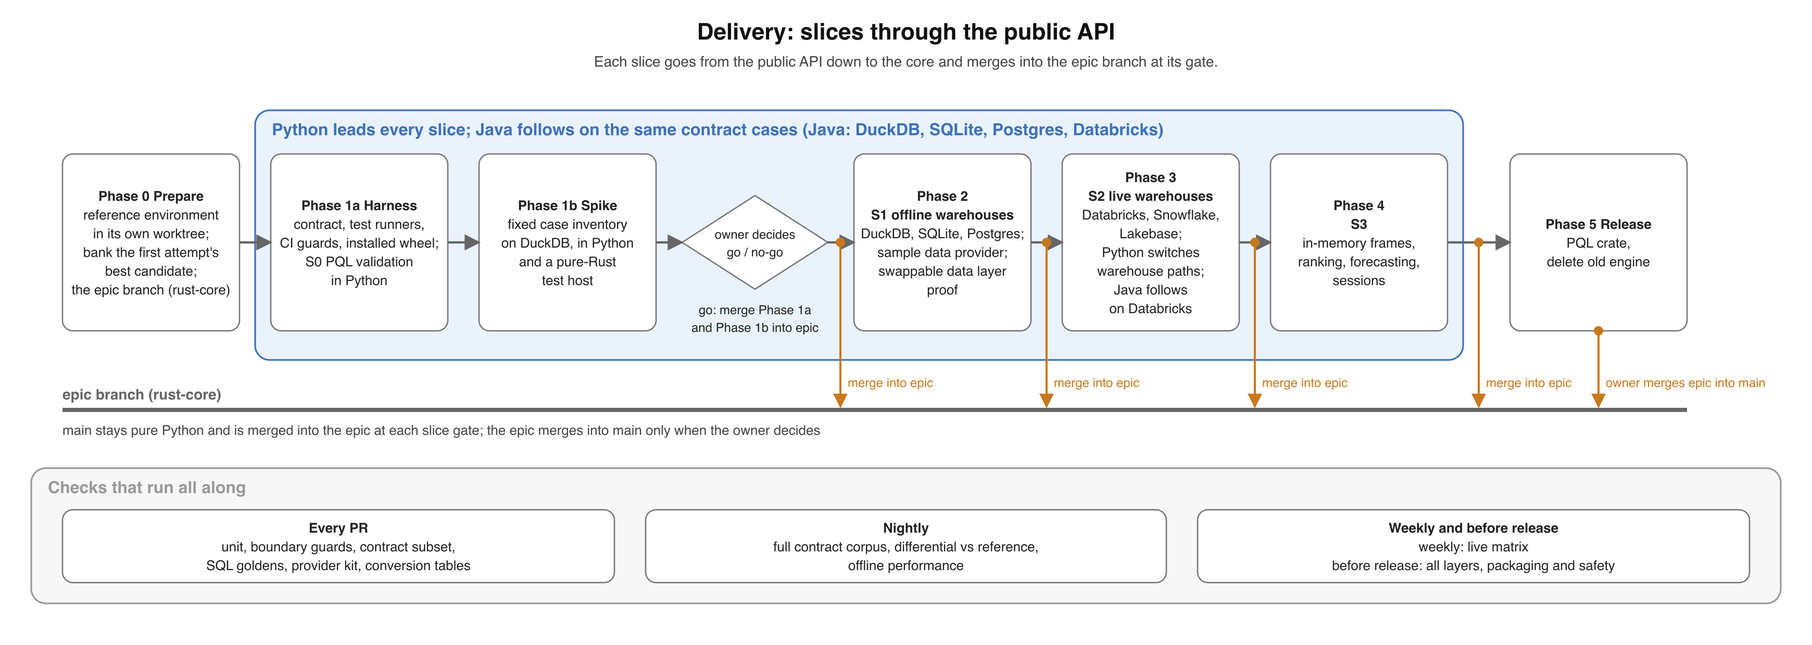
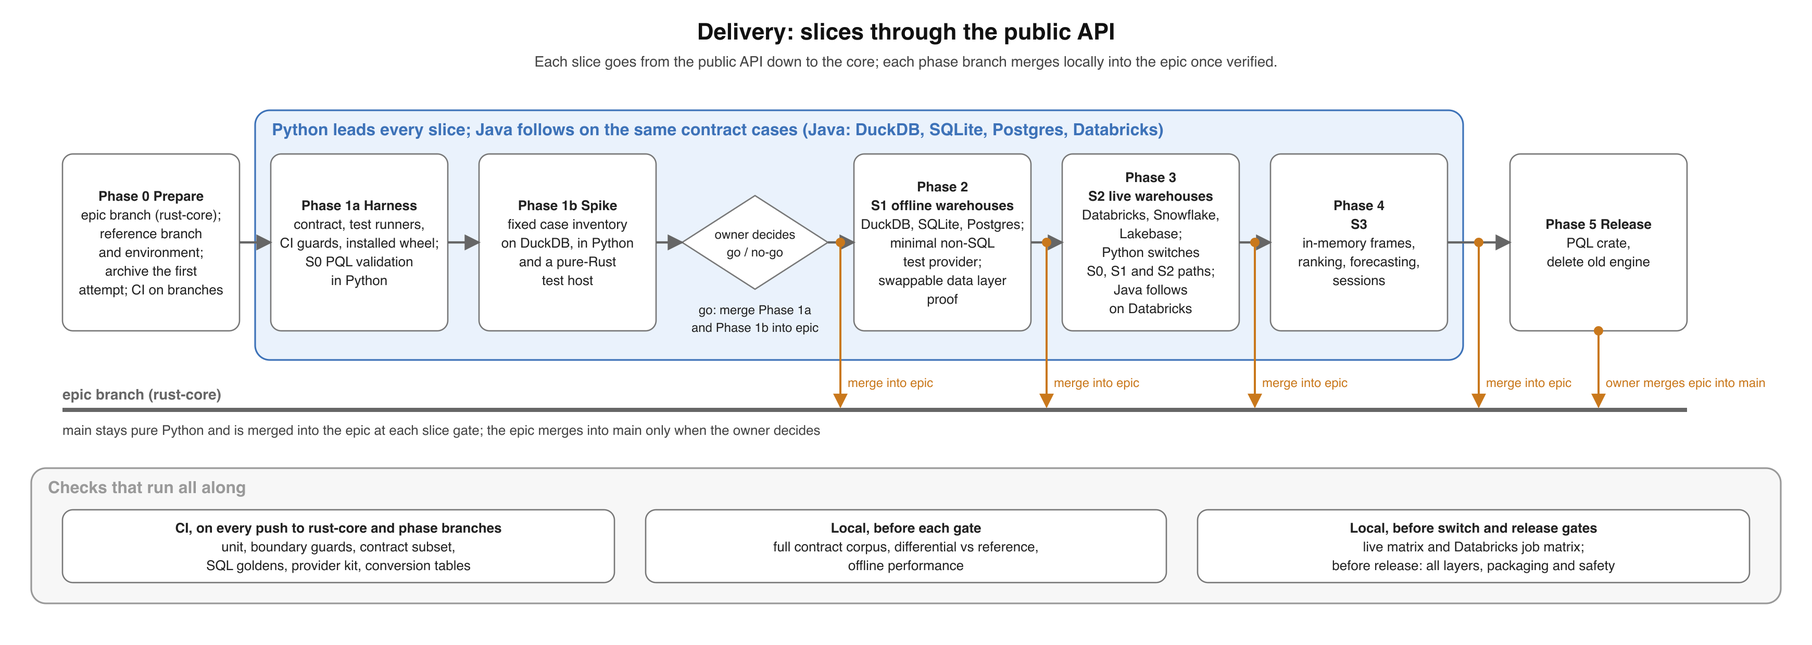
Apply the pre-Phase-0 audit and the owner's branch, reference and approval decisions
Phase branches merge locally into rust-core once verified, the reference
branch is pushed but compared locally, only the minimum determinism
fixes are taken, the first attempt is archived on GitHub, and each phase
gets a design doc and tracker. Fixes stale status, phase and naming
text, and completes the Phase 0 row.

diff --git a/docs/design/rust-core/images/make_diagrams.py b/docs/design/rust-core/images/make_diagrams.py
@@ -109,7 +109,7 @@ def architecture():
 
     # Bands. The layout keeps every vertical arrow clear of the band titles.
     c.band(30, 86, 1570, 204, "Outside sdm-client", GREY_FILL, "#999999", dashed=True)
-    c.band(30, 232, 1570, 416, "Python (main) and Java: every query and network call happens here", BLUE_FILL, BLUE)
+    c.band(30, 232, 1570, 416, "Python (primary) and Java: every query and network call happens here", BLUE_FILL, BLUE)
     c.band(30, 556, 1570, 900, "Rust core: shared logic, no database or network access", ORANGE_FILL, ORANGE)
 
     # Outside
@@ -240,12 +240,10 @@ def bindings():
 
     # Each language
     c.band(30, 90, 940, 246, "Each language", BLUE_FILL, BLUE)
-    c.box(60, 136, 330, 226, ["Python", "PyO3 binding (sdm-py),", "abi3 wheels built with maturin"], size=13)
-    c.box(350, 136, 620, 226, ["Java", "jni-rs binding (sdm-jni), loaded", "from the JAR (JDK 17 and 21);",
+    c.box(60, 136, 475, 226, ["Python", "PyO3 binding (sdm-py),", "abi3 wheels built with maturin"], size=13)
+    c.box(495, 136, 910, 226, ["Java", "jni-rs binding (sdm-jni), loaded", "from the JAR (JDK 17 and 21);",
                                "follows Python"],
           size=13)
-    c.box(640, 136, 910, 226, ["Future languages", "without a Rust binding tool:", "a C interface on top of sdm-host"],
-          stroke="#aaaaaa", size=13, dashed=True)
 
     # The shared boundary layer
     c.box(60, 310, 910, 410, ["sdm-host (plain Rust, written once)",
@@ -268,15 +266,14 @@ def bindings():
 
     # Calls
     c.arrow([(120, 226), (120, 310)], BLUE, label="Python objects, Arrow via PyCapsule", lx=128, ly=274)
-    c.arrow([(400, 226), (400, 310)], BLUE, label="Java objects, Arrow via Arrow Java C Data", lx=408, ly=274)
-    c.arrow([(775, 226), (775, 310)], GREY, dashed=True)
+    c.arrow([(555, 226), (555, 310)], BLUE, label="Java objects, Arrow via Arrow Java C Data", lx=563, ly=274)
     c.arrow([(811, 410), (811, 520)], ORANGE, label="Rust calls", lx=819, ly=450)
 
     # What ships: binding, sdm-host and the core, built into a native library per platform
     c.out.append('<path d="M948,136 L960,136 L960,686 L948,686" fill="none" stroke="#999999" '
                  'stroke-width="1.6"/>')
     c.out.append('<line x1="960" y1="411" x2="990" y2="411" stroke="#999999" stroke-width="1.6"/>')
-    c.box(990, 316, 1270, 506, ["Native libraries", "per platform", "Linux x86_64 and aarch64, macOS;",
+    c.box(990, 316, 1270, 506, ["Native libraries", "per platform,", "per the Phase 0", "support matrix;",
                                 "one in the wheel, one in the JAR,", "same sources;", "PQL's C++ linked in",
                                 "with private symbols"],
           fill=GREY_FILL, stroke="#999999", size=13, bold=2)
@@ -287,7 +284,7 @@ def bindings():
 def delivery():
     c = Canvas(1740, 620)
     c.title("Delivery: slices through the public API",
-            "Each slice goes from the public API down to the core and merges into the epic branch at its gate.")
+            "Each slice goes from the public API down to the core; each phase branch merges locally into the epic once verified.")
 
     top, bottom, mid = 148, 318, 233
 
@@ -296,16 +293,16 @@ def delivery():
            "(Java: DuckDB, SQLite, Postgres, Databricks)", BLUE_FILL, BLUE)
 
     phases = [
-        (60, 230, ["Phase 0 Prepare", "reference environment", "in its own worktree;", "bank the first attempt's",
-                   "best candidate;", "the epic branch (rust-core)"], 1),
+        (60, 230, ["Phase 0 Prepare", "epic branch (rust-core);", "reference branch", "and environment;",
+                   "archive the first", "attempt; CI on branches"], 1),
         (260, 430, ["Phase 1a Harness", "contract, test runners,", "CI guards, installed wheel;",
                     "S0 PQL validation", "in Python"], 1),
         (460, 630, ["Phase 1b Spike", "fixed case inventory", "on DuckDB, in Python", "and a pure-Rust",
                     "test host"], 1),
         (820, 990, ["Phase 2", "S1 offline warehouses", "DuckDB, SQLite, Postgres;",
-                    "sample data provider;", "swappable data layer", "proof"], 2),
+                    "minimal non-SQL", "test provider;", "swappable data layer", "proof"], 2),
         (1020, 1190, ["Phase 3", "S2 live warehouses", "Databricks, Snowflake,", "Lakebase;",
-                      "Python switches", "warehouse paths;", "Java follows", "on Databricks"], 2),
+                      "Python switches", "S0, S1 and S2 paths;", "Java follows", "on Databricks"], 2),
         (1220, 1390, ["Phase 4", "S3", "in-memory frames,", "ranking, forecasting,", "sessions"], 2),
         (1450, 1620, ["Phase 5 Release", "PQL crate,", "delete old engine"], 1),
     ]
@@ -334,12 +331,13 @@ def delivery():
 
     # Checks strip
     c.band(30, 450, 1710, 580, "Checks that run all along", GREY_FILL, "#999999")
-    c.box(60, 490, 590, 560, ["Every PR", "unit, boundary guards, contract subset,",
+    c.box(60, 490, 590, 560, ["CI, on every push to rust-core and phase branches",
+                              "unit, boundary guards, contract subset,",
                               "SQL goldens, provider kit, conversion tables"], size=13)
-    c.box(620, 490, 1120, 560, ["Nightly", "full contract corpus, differential vs reference,",
+    c.box(620, 490, 1120, 560, ["Local, before each gate", "full contract corpus, differential vs reference,",
                                 "offline performance"],
           size=13)
-    c.box(1150, 490, 1680, 560, ["Weekly and before release", "weekly: live matrix",
+    c.box(1150, 490, 1680, 560, ["Local, before switch and release gates", "live matrix and Databricks job matrix;",
                                  "before release: all layers, packaging and safety"], size=13)
 
     c.save("delivery.svg")

diff --git a/docs/design/rust-core/migration-plan.md b/docs/design/rust-core/migration-plan.md
@@ -1,7 +1,7 @@
 # Rust core migration: the new plan
 
-**Status: proposed.**
-It replaces the first plan once the owner approves it; the owner's decisions are in section 2.
+**Status: approved by the owner; executed phase by phase, each with its own design doc and tracker.**
+It replaces the first plan; the owner's decisions are in section 2.
 The postmortem behind it is [learnings.md](learnings.md).
 
 The goal is the same: one implementation of the client's logic shared by Python and Java, so the two can't drift.
@@ -36,10 +36,13 @@ The owner made these before any code:
 3. **Regressions:** refusing an input the old Python client accepted is a regression, and so is dropping a platform or version Python supports today, unless the owner decides it explicitly.
    Java on Snowflake is not prioritized, so it is not held to this yet.
 4. **Python quirks:** the register (section 5) follows common sense, with a small bias towards today's Python behavior but without catering to its accidents.
-5. **Reference environment:** a local reference branch off the latest `main`, with the first attempt's determinism fixes applied (so the old Python gives the same answer on every run), installed in its own worktree and environment with its Python, pandas, NumPy, PyArrow and torch versions recorded; it is the reference the tests compare against.
+5. **Reference environment:** the reference branch `rust-core-reference` is `main` plus the minimum determinism fixes, never contains Rust, and is pushed to GitHub so it isn't lost; it is the reference the tests compare against.
+   The fixes are only those needed for repeatable answers (seeded draws, stable ordering, independence from the hash seed), taken from the first attempt's `rust-core/p1-determinism` work, with no refusals and no other behavior changes; `phase-0/determinism-fixes.md` lists the selection.
+   Each kept fix is first compared with unpatched Python, and any changed outcome is registered before the reference adopts it.
+   It is installed in its own worktree and environment at `~/code/sdmc-reference`, with its Python, pandas, NumPy, PyArrow and torch versions recorded.
+   Reference comparisons (L3, the full L2, the live and job matrices) run locally on the developer's machine, not in CI.
    It tracks `main`, which is safe because `main` never contains the Rust core before the epic merges; at each slice gate it is updated to the latest `main` and the full comparison rerun, and a new difference must trace to a deliberate commit on `main`.
-   Each determinism fix is first compared with unpatched Python, and any changed outcome is recorded in the quirk register before the reference adopts it.
-   An immutable copy of the original baseline is kept, and a guard fails if the reference ever loads the Rust core.
+   The original baseline is kept as an immutable tag `reference-baseline-<sha>`, and a guard fails if the reference ever loads the Rust core.
    Every test run records the reference commit and the identity of the installed artifact it used.
 6. **PQL:** the PQL team owns one C++ core and publishes it as a Rust crate and a Python package; this client's core uses the Rust crate, with the hand-written parser as a stopgap (section 3).
 7. **Data layer:** the data layer must be switchable: a team given access to this repository should be able to replace it, for example to work with Pyramid, without touching the rest of the core.
@@ -49,13 +52,17 @@ The owner made these before any code:
 9. **No calendar budget and no time estimates:** the work is paced by its gates, not by dates, and dates must not change the quality of the work.
 10. **Ownership:** this team owns the core long term; that does not change how it is built.
 11. **Epic branch:** an epic branch (`rust-core`) based on `main` holds all migration work.
+    Each phase's work happens on its own branch off `rust-core` (for example `rust-core-phase-0`), pushed to GitHub so nothing is lost, and merges locally into `rust-core` once verified (section 9); there are no pull requests.
     Slices merge into the epic branch, never into `main`; `main` stays pure Python and keeps moving, and the epic branch is updated from `main` at each slice gate.
     Merging the epic into `main` is the owner's decision at the end; until then the work is experimental.
 12. **People:** one developer works with agents.
-    The independent reviewer is a fresh agent that did not implement the change; the owner is the only human approver, and no second human or code-owner account is assumed.
-    An agent never approves its own exception under the owner's account.
+    The independent reviewer is a fresh agent that did not implement the change; the owner is the only human approver.
+    The owner approves by merging a verified phase or slice branch locally, by decisions recorded in the phase's decisions file, and by register entries marked `approved-by: owner`.
+    An agent never approves its own exception or marks anything `approved-by: owner`.
+13. **The first attempt:** its best candidate (commit `ab85a056`, tag `pm/2026-10-07/all-public-cases-pass`) is archived on GitHub as `archive/rust-core-attempt-1`, a source to port from that is never merged.
 
 Still to agree with the PQL team: one PQL dialect, the versioned validated-query format, the conformance suite, platform builds, and when the Rust crate ships.
+Phase 0 sends these asks and tracks them in `phase-0/pql-asks.md`; agreement is not a Phase 0 exit.
 
 ## 3. Architecture
 
@@ -142,8 +149,8 @@ The drift risk is less in the grammar than in the code around it (tree building,
 - **One conformance suite** of valid and invalid queries with expected codes and spans, seeded with this client's 417 cases, run by every consumer.
 - **Until the Rust crate is published,** this client's Python and Java both use the first attempt's hand-written Rust parser as an interim parser, behind one adapter in `sdm-core` and held to the shared suite; today's ANTLR grammar stays as a CI reference.
 - **As soon as the PQL team's artifact exists,** it is exercised behind the same adapter in the active slice: build, load, validated-query format, codes and spans, and coexistence with its Python package in one process.
-  Before Phase 5 this client switches to a pinned release of the crate and deletes the interim parser; deferring that is an explicit scope decision.
-- **What to ask the PQL team for:** a C interface or a Rust crate that never lets a C++ exception cross into Rust, builds for every platform this client ships with private C++ symbols, so two copies can live in one process, a versioned validated-query format with a JSON Schema, and the conformance suite in their repository.
+  In Phase 5 this client switches to a pinned release of the crate and deletes the interim parser; deferring that is an explicit scope decision.
+- **What to ask the PQL team for (the PQL asks):** a C interface or a Rust crate that never lets a C++ exception cross into Rust; static libraries for every platform this client ships, built for manylinux, with private C++ symbols so two copies can live in one process; matching crate and PyPI releases; no aborts or console output, and a recursion limit; a versioned validated-query format with a JSON Schema; and the conformance suite in their repository, run in their CI.
 - **This client keeps** only the model capability checks on top of the validated query.
 
 ### Bindings
@@ -213,7 +220,7 @@ Today's `wire` crate is generated from the model API; `sdm-request` uses it, and
 | Columnar data and kernels | `arrow` crates, including `arrow-cast`, `arrow-ord`, `arrow-arith`, `arrow-select`, `arrow-row` and `arrow-ipc` |
 | Decimals and big integers | Arrow's decimal types and `arrow-buffer`'s `i256`, under the contract's exact-encoding policy |
 | PQL parsing | The PQL team's Rust crate over its C++ core (so every build also compiles and links C++) |
-| Dates, times, zones | `chrono` with `chrono-tz` (`arrow-cast` already uses it), checked against the date corpus including zone rules after 2037; the tzdata version is recorded as a host fact; chosen before Phase 1b, because the spike needs it |
+| Dates, times, zones | `chrono` with `chrono-tz` (`arrow-cast` already uses it), checked against the date corpus including zone rules after 2037; the tzdata version is recorded as a host fact; confirmed in Phase 0, because the Phase 1b spike needs it |
 | YAML (metric and semantic views) | A maintained YAML 1.2 crate such as `saphyr` or `yaml-rust2` (not the archived `serde_yaml`); behavior differences go through the register |
 | JSON | `serde`, `serde_json` |
 | Error types | `thiserror`; no `anyhow` in core crates |
@@ -229,7 +236,7 @@ The wheel and JAR ship third-party notices, including for statically linked C++.
 Dependency updates are reviewed changes made only at slice gates, with `arrow`, `pyo3` and `jni` updated together.
 The PQL crate and its C++ artifact are pinned by version and digest.
 
-On the Python side, pandas and pyarrow stay as host dependencies, and the old engine goes away at the end.
+On the Python side, pandas and pyarrow stay as host dependencies, and the old engine is deleted on the epic branch in Phase 5.
 
 ## 4. Delivery: slices, not modules
 
@@ -245,17 +252,17 @@ On the Python side, pandas and pyarrow stay as host dependencies, and the old en
 Amazon S3 is unrelated to slice S3: `sdm_connectors.read` reading CSV or Parquet from `s3://` into pandas stays in the host, and its frames are covered as S3's in-memory frames.
 
 A path is one public operation with one input mode on one backend (for example `predict` of a regression query on Snowflake), and one routing boundary chooses the old implementation or the core for each path.
-Python switches a path on the epic branch only after its slice passes all its gates, live ones included: S0 (PQL validation), S1 and S2 paths together after S2, so no call mixes old and new code, and S3 paths (ranking, forecasting, sessions, on any backend) after S3.
+Python switches a path on the epic branch only after its slice passes all its gates, live ones included: S0 (PQL validation), S1 and S2 paths switch together after S2, in Phase 3, so no call mixes old and new code, and S3 paths (ranking, forecasting, sessions, on any backend) switch after S3.
 Phase 0 maps every Databricks job in the matrix to its paths, so S2 includes what its jobs need.
-Each slice merges into the epic branch at its gate, never into `main`; the epic branch is updated from `main` at each gate, and merging it into `main` is the owner's decision at the end.
-The old engine is deleted when the epic merges into `main`; the reference (decision 5) stays available after that.
+Each phase's branch merges locally into the epic branch once verified, never into `main`; the epic branch is updated from `main` at each gate, and merging it into `main` is the owner's decision at the end.
+The old engine is deleted on the epic branch in Phase 5; the reference (decision 5) stays available after that.
 Python sets the pace: a slice ships for Python when its Python gates pass, and Java follows on the same contract cases without holding it back.
 
 ## 5. The quirk register
 
-The register is a machine-readable file in the repository.
+The register is a machine-readable file at `docs/design/rust-core/register.yaml`.
 Entries follow common sense, with a small bias towards today's Python behavior but without catering to its accidents.
-Every entry names the old and new behavior, the affected inputs and contract case IDs, and who approved it: the independent reviewer approves entries, and an entry that refuses an input Python accepted needs the owner's approval, since that is a regression.
+Every entry names the old and new behavior, the affected inputs and contract case IDs (or issue or task IDs until Phase 1a creates case IDs), and who approved it: the independent reviewer approves entries, and an entry that refuses an input Python accepted needs the owner's approval (`approved-by: owner`), since that is a regression.
 
 | Keep (part of the promise) | Drop (by recorded decision) |
 |---|---|
@@ -275,22 +282,22 @@ Each needs its own decision, not a blanket rule: answers that differ between pan
 
 | Layer | What it checks | When |
 |---|---|---|
-| L0 Boundary guards | First-party domain crates forbid `unsafe` and their production dependency graph has no `pyo3`, `jni` or `arrow-pyarrow` (only the binding crates may use them); the run steps are only data and model steps (no requests for language behavior such as truthiness, sorting or dtype inference); a pure-Rust test host passes the contract subset; the contract's JSON Schema, run steps and the PQL validated-query format don't change without an owner-approved version bump; `cargo-deny` and clippy's disallowed types | Every PR |
-| L1 Unit and property tests | Algorithms in each crate, with every past mismatch seed; the shared PQL conformance suite; fuzzing of the PQL, YAML and contract-JSON decoders | Every PR |
-| L2 Contract corpus | One shared list of cases, run in each language: a public call and its inputs in; ordered data requests, SQL and typed parameters, payload, result, warnings and error kind, code, details and cause out; row order compared only where the operation defines it; SQL traces compared only for SQL providers, and data-request traces checked against their own contract; pickles written by the reference load in the new client, and new state carries a version; a coverage matrix is generated from a declared scope file for the current slice, with representative nested shapes and one generated refusal case per unsupported type, and an empty cell fails | Every PR (subset, for feedback), before each slice gate (all) |
-| L3 Differential generator | Random public-API inputs compared with the reference (decision 5), installed in its own environment, before and after the old code is deleted | Nightly |
-| L4 SQL goldens and provider kit | Reviewed SQL per database, executed on DuckDB, SQLite and Postgres; the local providers pass the conformance kit | Every PR |
-| L5 Conversion tables | Each language's native-to-Arrow table, both pandas majors; the same tables loaded into DuckDB, SQLite and Postgres reach the core with identical Arrow schemas, values, null masks, order and required metadata from Python's drivers and Java's JDBC, checked against expected values (large integers, decimal scale, timestamp units, nested nulls, list widths, dictionaries) | Every PR |
-| L6 Live matrix | The scope inventory's scenarios on Databricks, Snowflake and Lakebase (Databricks' managed Postgres), plus the Databricks job matrix (one-time jobs across Databricks runtimes, compared with the reference's results); old versus new, and Python versus Java on the same data | Weekly and before release |
-| L7 Performance | Offline, on recorded runs: query counts equal; CPU per scenario at most today's (aim well below; the first attempt measured about half), no scenario above 1.1 times; boundary overhead per in-memory run within a small fixed bound; the control-message size cap; zero-copy and "no pandas in providers" checks; import time and native library size within set limits; live: push-down median over at least five interleaved runs, caches off, within 10% on Databricks and Snowflake | Offline nightly; live at switch and release gates only |
+| L0 Boundary guards | First-party domain crates forbid `unsafe` and their production dependency graph has no `pyo3`, `jni` or `arrow-pyarrow` (only the binding crates may use them); the run steps are only data and model steps (no requests for language behavior such as truthiness, sorting or dtype inference); a pure-Rust test host passes the contract subset; the contract's JSON Schema, run steps and the PQL validated-query format don't change without an owner-approved version bump; `cargo-deny` and clippy's disallowed types | CI, on every push to `rust-core` and phase branches |
+| L1 Unit and property tests | Algorithms in each crate, with every past mismatch seed; the shared PQL conformance suite; fuzzing of the PQL, YAML and contract-JSON decoders | CI, on every push to `rust-core` and phase branches |
+| L2 Contract corpus | One shared list of cases, run in each language: a public call and its inputs in; ordered data requests, SQL and typed parameters, payload, result, warnings and error kind, code, details and cause out; row order compared only where the operation defines it; SQL traces compared only for SQL providers, and data-request traces checked against their own contract; pickles written by the reference load in the new client, and new state carries a version; a coverage matrix is generated from the scope manifest (per language) over the case inventory for the current slice, with representative nested shapes and one generated refusal case per unsupported type, and an empty cell fails | CI on every push (subset, for feedback); local, before each slice gate (all) |
+| L3 Differential generator | Random public-API inputs compared with the reference (decision 5), installed in its own environment, before and after the old code is deleted | Local, before each slice gate |
+| L4 SQL goldens and provider kit | Reviewed SQL per database, executed on DuckDB, SQLite and Postgres; the local providers pass the conformance kit | CI, on every push to `rust-core` and phase branches |
+| L5 Conversion tables | Each language's native-to-Arrow table, both pandas majors; the same tables loaded into DuckDB, SQLite and Postgres reach the core with identical Arrow schemas, values, null masks, order and required metadata from Python's drivers and Java's JDBC, checked against expected values (large integers, decimal scale, timestamp units, nested nulls, list widths, dictionaries) | CI, on every push to `rust-core` and phase branches |
+| L6 Live matrix | The scenarios in the scope manifest (per language) over the case inventory, on Databricks, Snowflake and Lakebase (Databricks' managed Postgres), plus the Databricks job matrix (one-time jobs across Databricks runtimes, compared with the reference's results); old versus new, and Python versus Java on the same data | Local, before the S2 slice gate and the switch, epic merge and release gates |
+| L7 Performance | Offline, on recorded runs: query counts equal; CPU per scenario at most today's (aim well below; the first attempt measured about half), no scenario above 1.1 times; boundary overhead per in-memory run within a small fixed bound; the control-message size cap; zero-copy and "no pandas in providers" checks; import time and native library size within set limits; live: push-down median over at least five interleaved runs, caches off, within 10% on Databricks and Snowflake | Local: offline before each slice gate; live at switch and release gates only |
 | L8 Packaging and safety | The real wheel and JAR install and load in clean containers (JDK 17 and 21, every platform in the declared support matrix); exported symbols, private C++ symbols and minimum system library versions checked; a Python process loading both this client and the PQL team's package; `sdm-host` under sanitizers; panic, C++ error, crash and leak tests in each language; HTTP retry, timeout and redaction tests | Focused checks whenever bindings or native dependencies change; the full platform matrix before the epic merges |
 
-- **Scope manifests:** Python and Java have separate scope manifests over the shared cases.
+- **Scope manifests:** Python and Java each have a scope manifest (per language) over the case inventory.
   Python gates require the Python and pure-Rust checks; Java-only checks (such as JDBC conversion equality in L5) block only Java shipping, but a shared-core defect they expose blocks the affected path.
-- **Ratchet:** CI compares every case's full observed outcome with the protected last-green baseline, so a changed answer, a new refusal or a removed case fails unless a register entry states that case's exact old and new outcome.
-  The baseline updates automatically on merge into the epic branch.
+- **Ratchet:** the checks compare every case's full observed outcome with the last-green baseline (CI for the L2 subset, locally for the full corpus), so a changed answer, a new refusal or a removed case fails unless a register entry states that case's exact old and new outcome.
+  The baseline is updated as part of each merge into the epic branch.
   This replaces choosing "neighboring cases" by hand.
-- **Run time:** keep the PR checks fast and move slow ones to nightly; run time is something to optimize, never a reason to skip cases.
+- **Run time:** keep the CI checks fast and run slow ones locally before each gate; run time is something to optimize, never a reason to skip cases.
 - **Test the tests:** before the L2 runners count for acceptance, show they fail on a corrupted expectation, a missing case, a skipped call and a missing native library.
 - **Local first:** reproduce a failure from the installed package before spending a remote run on it; a failure that only happens remotely gets one bounded diagnostic run.
 - **Retiring old tests:** the first attempt's internal-equivalence tests go once the L2 and L3 failure families they caught are covered, measured by seeding those failures and checking the new layers catch them.
@@ -300,8 +307,8 @@ Each needs its own decision, not a blanket rule: answers that differ between pan
 
 | Gate | Passes when |
 |---|---|
-| Merge a change into the epic branch | L0, L1, L4, L5 and the L2 subset green for Python and the pure-Rust host; the ratchet holds; a type or conversion fix comes with a public reproduction that failed first; focused L8 checks if bindings or native dependencies changed |
-| Slice done (merges into the epic branch) | The epic branch updated from `main` and the reference rerun on it; the full L2 for the slice green in Python (Java must be green for its own scope before it ships that slice); L3 on the agreed seed sets with no unexplained divergence; every difference has an approved register entry; for S2, L6 green for its scenarios |
+| A change lands on a phase branch | L0, L1, L4, L5 and the L2 subset green in CI for Python and the pure-Rust host; the ratchet holds; a type or conversion fix comes with a public reproduction that failed first; focused L8 checks if bindings or native dependencies changed |
+| Slice done (its branch merges locally into the epic branch) | The epic branch updated from `main` and the reference rerun on it locally; the full L2 for the slice green in Python (Java must be green for its own scope before it ships that slice); L3 on the agreed seed sets with no unexplained divergence; every difference has an approved register entry; for S2, L6 green for its scenarios; a fresh-agent review; the owner merges it locally |
 | Python switch for a path (on the epic branch) | Its slice done; L6 green for it; the Databricks job matrix equal to the baseline; L7 within its limits, live timing included |
 | Epic merges into `main` (the owner's decision) | Every slice done and switched; the full L8 platform matrix green; L6 and the job matrix green on the epic commit; the existing Python test suites green |
 | Release | Every applicable layer green on the release commit, with the old engine deleted, including L6 and the job matrix; live test resources cleaned up |
@@ -315,28 +322,31 @@ Each needs its own decision, not a blanket rule: answers that differ between pan
 
 | Phase | Work | Exit |
 |---|---|---|
-| Phase 0 | Create the epic branch; create the reference branch and environment (decision 5) in its own worktree, with its guard and an immutable copy of the original baseline; compare each determinism fix with unpatched Python and record changed outcomes in the register; record today's platform and version support and the proposed wheel coverage; record the accepted text-date formats and inference rules; choose the time library; agree the PQL crate's interface and platform builds with the PQL team; verify branch protection, CI and the owner's approval route; push the first attempt's best candidate as a named branch and run CI once, as a fallback; archive the rest | Reference branch and its guard work; decisions recorded; CI and approval route verified |
-| Phase 1a | `sdm-contract`, `sdm-testkit`, L0 guards, L2 runners for Python and the reference, CI tiers; build and clean-install a real abi3 wheel in CI | S0 green in Python; the runners fail on seeded faults; the wheel installs and loads in a clean container |
-| Phase 1b | Spike, fixed in scope: DuckDB `from_source` → `materialize` → `predict` → result through the new contract and the data provider interface, in Python and through the pure-Rust test host (which shows the contract needs nothing from Python), against a scripted model endpoint; a fixed case inventory, chosen before Phase 1b, covers the hard seams: keys, decimal precision, nested values, empty and all-null data, and time inference; the text-date rules recorded in Phase 0 checked against the reference | Matches the reference on that inventory (inferred types, keys, time columns, data requests and SQL, payloads, results, warnings and refusals); the owner decides go or no-go (go: Phase 1a and Phase 1b merge into the epic branch and Java's S0 work starts; no-go: repair the first attempt in place, or stop) |
+| Phase 0 | Create the epic branch `rust-core` and the phase branch `rust-core-phase-0`; extend `.github/workflows/ci.yml` to run the fast checks on pushes to `rust-core` and phase branches; create and push `rust-core-reference` (decision 5) with the fixes listed in `phase-0/determinism-fixes.md`, set up its worktree and environment at `~/code/sdmc-reference` with its guard, and tag the baseline `reference-baseline-<sha>`; compare each kept fix with unpatched Python and register changed outcomes; record today's platform and version support and the proposed wheel coverage; record the accepted text-date formats and inference rules; confirm `chrono` with `chrono-tz` against the date corpus; pin the random streams; map every Databricks job to its paths; choose the Phase 1b case inventory; send the PQL asks (section 3) and track them in `phase-0/pql-asks.md`; archive the first attempt (decision 13) | The reference branch, baseline tag and guard work; decisions recorded in `phase-0/decisions.md`; CI runs on `rust-core` and phase branches; the PQL asks sent (agreement is not a Phase 0 exit) |
+| Phase 1a | `sdm-contract`, `sdm-testkit`, L0 guards, L2 runners for Python and the reference, the CI fast checks and the local gate checks; build and clean-install a real abi3 wheel in CI | S0 green in Python; the runners fail on seeded faults; the wheel installs and loads in a clean container |
+| Phase 1b | Spike, fixed in scope: DuckDB `from_source` → `materialize` → `predict` → result through the new contract and the data provider interface, in Python and through the pure-Rust test host (which shows the contract needs nothing from Python), against a scripted model endpoint; the case inventory chosen in Phase 0 covers the hard seams: keys, decimal precision, nested values, empty and all-null data, and time inference; the text-date rules recorded in Phase 0 checked against the reference | Matches the reference on that inventory (inferred types, keys, time columns, data requests and SQL, payloads, results, warnings and refusals); the owner decides go or no-go (go: Phase 1a and Phase 1b merge into the epic branch and Java's S0 work starts; no-go: repair the first attempt in place, or stop) |
 | Phase 2 | The dataframe-engine comparison at entry; S1, moving only the code S1 needs off the Python value model and onto the contract; the provider conformance kit, the minimal non-SQL test provider and the swapped data layer | Slice gate |
-| Phase 3 | S2 and the Python switch for warehouse paths, on the epic branch | Switch gate |
+| Phase 3 | S2 and the Python switch for S0, S1 and S2 paths, on the epic branch | Switch gate |
 | Phase 4 | S3, moving the rest of the code as its paths need it | Slice gate and switch gate |
-| Phase 5 | Switch to the PQL crate release; delete the interim parser and the old engine; release candidate; the owner decides whether the epic merges into `main` | Epic merge gate, then release gate |
+| Phase 5 | Switch to the PQL crate release; delete the interim parser and the old engine on the epic branch; release candidate; the owner decides whether the epic merges into `main` | Epic merge gate, then release gate |
 
 ## 9. Process rules
 
 | Rule | How it's enforced |
 |---|---|
-| The epic branch holds the only candidate; work on the next slice starts only after this slice's gate passes; independent tasks within a slice may run in parallel | Required CI and review on the epic branch; the status page lists open branches |
-| A candidate that passes its checks is pushed before more work builds on it; each slice merges into the epic branch at its gate, never into `main`; the epic branch is updated from `main` at each slice gate | CI on the epic branch; the slice gate is a pull request into the epic branch |
-| Acceptance is what CI runs, plus one independent reviewer per change (a fresh agent that did not implement it), the owner's decisions, and one independent release audit of the existing evidence | Required checks on the pull request |
-| At most two review rounds per change; one independent reviewer checks code and behavior, not prose; a third round goes to the owner | Recorded on the pull request |
-| A phase's acceptance checks are locked before implementation; each change states what and why; a third change in one phase goes to the owner | Locked files change only with the owner's approval |
-| Approval by meaning: one decision approves all the files it explains | Register entries and pull request approvals; no per-file hashes |
-| Stop rules (below) are lifted only by the owner, never by delegation; on a stop, implementation and live runs pause and the evidence is reported | The owner's approval on the record; an agent never approves its own exception under the owner's account (Phase 0 verifies the approval route, or the owner checks it by hand) |
+| The epic branch holds the only candidate; work on the next slice starts only after this slice's gate passes; independent tasks within a slice may run in parallel | CI fast checks on the epic and phase branches; the status page lists open branches |
+| Each phase's work happens on its own branch off `rust-core` (for example `rust-core-phase-0`), pushed to GitHub so nothing is lost; a candidate that passes its checks is pushed before more work builds on it; phase branches never merge into `main`; the epic branch is updated from `main` at each slice gate | Once verified (CI fast checks, local gate checks, a fresh-agent review), the phase or slice branch is merged locally into `rust-core` and `rust-core` is pushed; there are no pull requests |
+| Acceptance is what CI and the local gate checks run, plus one independent reviewer per change (a fresh agent that did not implement it), the owner's decisions, and one independent release audit of the existing evidence | The owner's approval is the local merge of a verified phase or slice branch, plus decisions in `phase-N/decisions.md` and register entries marked `approved-by: owner` |
+| At most two review rounds per change; one independent reviewer checks code and behavior, not prose; a third round goes to the owner | Recorded in the phase's tracker |
+| A phase's acceptance checks are locked before implementation; each change states what and why; a third change to a phase's locked acceptance checks goes to the owner | Locked files change only with the owner's approval |
+| Approval by meaning: one decision approves all the files it explains | Register entries and owner decisions; no per-file hashes |
+| Stop rules (below) are lifted only by the owner, never by delegation; on a stop, implementation and live runs pause and the evidence is reported | The owner's decision in `phase-N/decisions.md`; an agent never approves its own exception or marks anything `approved-by: owner` |
 | One status page: candidate commit, gates passed, open failures, decisions needed | Generated from CI and git, not written by the executor |
 | Anything that changes behavior or scope goes to the owner straight away | Register entries and the status page |
 | New acceptance infrastructure beyond the agreed test runner needs the owner's approval | Listed on the status page |
+| Each phase has `docs/design/rust-core/phase-N/design.md` and `tracker.md` on its phase branch | Created with the phase branch |
+
+Where things live: the reference worktree at `~/code/sdmc-reference`; the baseline tag `reference-baseline-<sha>`; owner decisions in `phase-N/decisions.md`; the register at `docs/design/rust-core/register.yaml`, whose entries may cite issue or task IDs until contract case IDs exist in Phase 1a.
 
 **Stop rules:**
 - a phase that keeps finding new work instead of closing its exit checks stops for a re-plan with concrete cuts;
@@ -352,7 +362,7 @@ Each needs its own decision, not a blanket rule: answers that differ between pan
 |---|---|
 | The Java consumer's environment can't load a native library | Check it with the consumer before Java packaging; if it can't, the owner decides Java's scope |
 | The PQL Rust crate isn't ready when needed | The interim parser, held to the shared conformance suite |
-| The C++ PQL core complicates every build and can crash across the boundary | Ask the PQL team for a C interface that never lets exceptions escape, static libraries per platform built for manylinux with private symbols, matching crate and PyPI releases, no aborts or console output, a recursion limit, and the conformance suite in their CI; exercise their artifact as soon as it exists; load and crash tests in L8 |
+| The C++ PQL core complicates every build and can crash across the boundary | See the PQL asks in section 3; exercise their artifact as soon as it exists; load and crash tests in L8 |
 | A native library builds but doesn't load on some platform | Phase 1a installs a real wheel; L8 installs the real artifacts in clean containers whenever native code changes, and for every platform before the epic merges |
 | Native wheels silently drop a platform or version Python supports today | Phase 0 records today's support; any drop is an explicit owner decision |
 | The Java consumer's environment disallows the needed runtime flags | Confirm `--enable-native-access` and Arrow Java's flag with the consumer before Java packaging |

diff --git a/docs/design/rust-core/learnings.md b/docs/design/rust-core/learnings.md
@@ -70,7 +70,7 @@ Run a second language early, so Python assumptions show up while they are cheap 
 Recordings were keyed by private Python function names, and coverage was measured on private branches.
 They missed common inputs such as pyarrow-backed pandas frames, and some renames and rebases meant re-recording and re-approving hundreds of files.
 Most real bugs were found by reviewers, ad hoc probes and a late public-API generator.
-**Lesson:** the main test layer is a language-neutral corpus of public-API cases, plus a generator that compares against the old release.
+**Lesson:** the main test layer is a language-neutral corpus of public-API cases, plus a generator that compares against the reference branch (`main` plus determinism fixes).
 Algorithm unit tests stay; migration-specific tests of internals are retired once their replacements are shown to catch the same failures.
 
 ### 7. Fixes did not protect neighboring cases
@@ -89,7 +89,7 @@ About 43% of the first orchestrator's agent time was process.
 Most audits failed on wording, not code.
 Agreed acceptance checks were locked before implementation, and checks that could never pass had to be changed and locked again ("relocks"): eight times across the first orchestrator's phases, and nine times in a single later phase.
 Evidence tied to exact commits forced repeated re-validation, and approvals were per file hash, so one rename meant hundreds of re-approvals.
-The second orchestrator added rules on itself and asked the owner one question in 62 hours.
+The second orchestrator added rules on itself and asked the owner one question in its 63 hours.
 **Lesson:** cap rounds and relocks, approve by meaning (one decision covers many files), and bound phases by executable outcomes.
 Stop rules are acted on by the owner, not by the agent doing the work.
 
@@ -98,7 +98,7 @@ Stop rules are acted on by the owner, not by the agent doing the work.
 The two runs created 74 worktree directories and many branches.
 One candidate passed all 5,004 public cases and 21,388 generated ones, though its live checks had not run; it existed only as a detached commit.
 The next four fixes, composed on top of it, broke 24 cases that used to work.
-**Lesson:** keep one integration branch with at most one short-lived topic branch.
+**Lesson:** keep one integration branch with at most one short-lived topic branch per task.
 Push every candidate that passes its checks before building on it, and treat "passed these cases" as a checkpoint, not a release.
 
 ### 11. Agreements made in review were lost
@@ -123,5 +123,5 @@ After reviewing each other's reports, the second orchestrator endorsed proving t
 |---|---|---|---|
 | How deep to fix the boundary | Re-cut to an Arrow-only contract | Repair it in place; problems are "bounded" | Prove the Arrow-only contract on one hard slice first, then choose from the evidence |
 | Process | Reset it | Keep the full machinery, trim the launchers | Reset it: keep behavioral requirements and independent review, drop per-file approvals and unbounded relocks |
-| Slice order | Warehouse first, Python and Java together | Python slices first, Java later | Python leads every slice, warehouse path first; Java follows on the same contract cases |
+| Slice order | Warehouse first, Python and Java together | Python slices first, Java later | Python leads every slice: PQL, offline databases, then warehouses; Java follows |
 | Deleting internal tests | On a schedule | Only when replacements prove they catch the same issues | Replacements must show they catch what the old tests caught; then delete |
